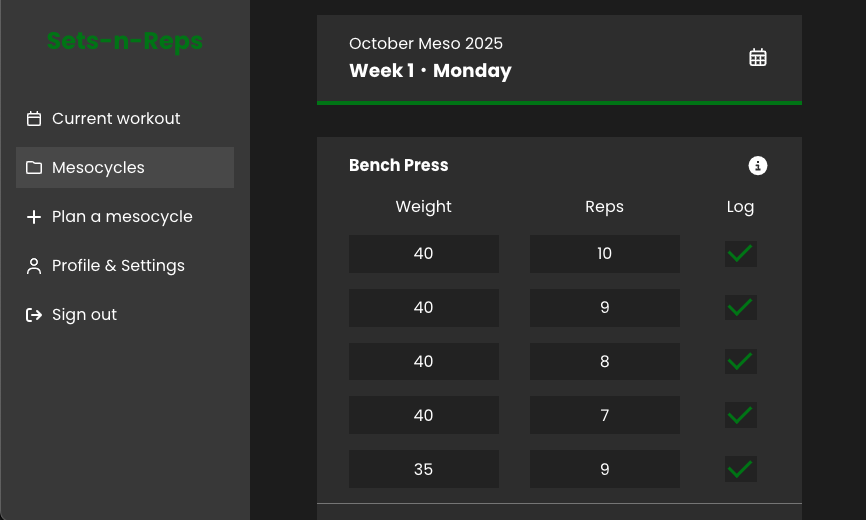
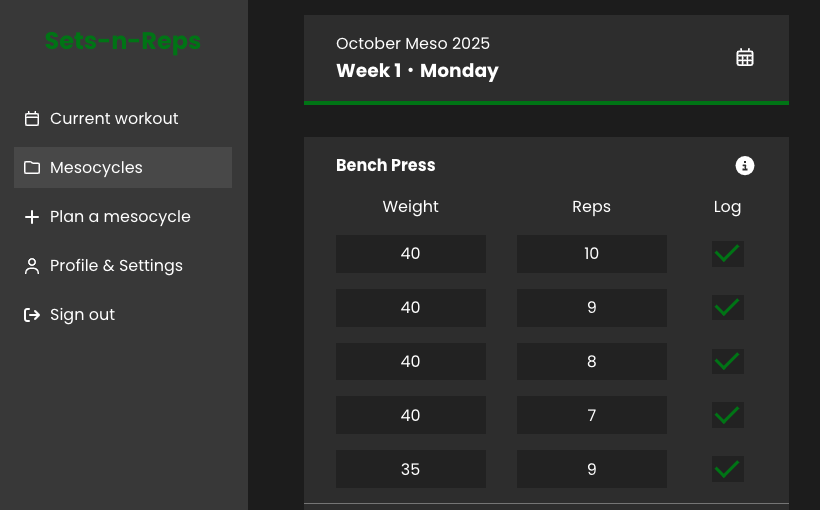
README: Replace web screenshot with smaller screenshot

diff --git a/README.md b/README.md
@@ -3,8 +3,12 @@
 [Sets-n-Reps](https://sets-n-reps.com) is a browser-based workout tracker designed for both desktop and mobile.
 
 <p style="display: flex; justify-content: center; align-items: center; gap: 10px;">
-  <img src="README-assets/mobile-screenshot.jpg" height="400px" />
-  <img src="README-assets/web-screenshot.png" height="400px" />
+  <a href="https://sets-n-reps.com">
+    <img src="README-assets/web-screenshot.png" height="400px" width="70%" />
+  </a>
+  <a href="https://sets-n-reps.com">
+    <img src="README-assets/mobile-screenshot.jpg" height="400px" width="20%" />
+  </a>
 </p>
 
 It offers three key features:
